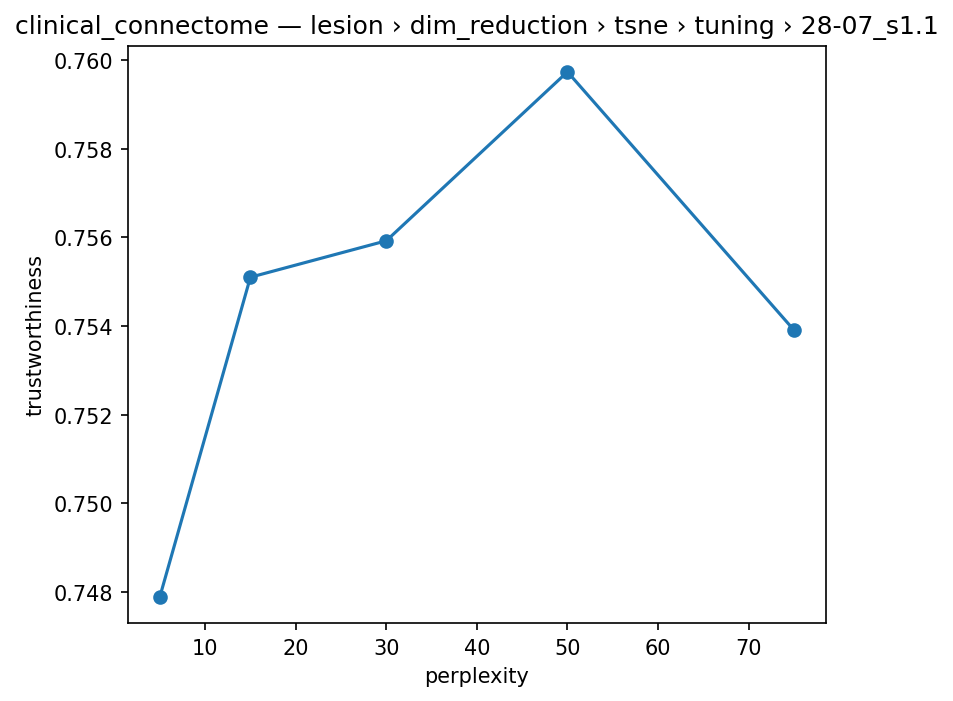
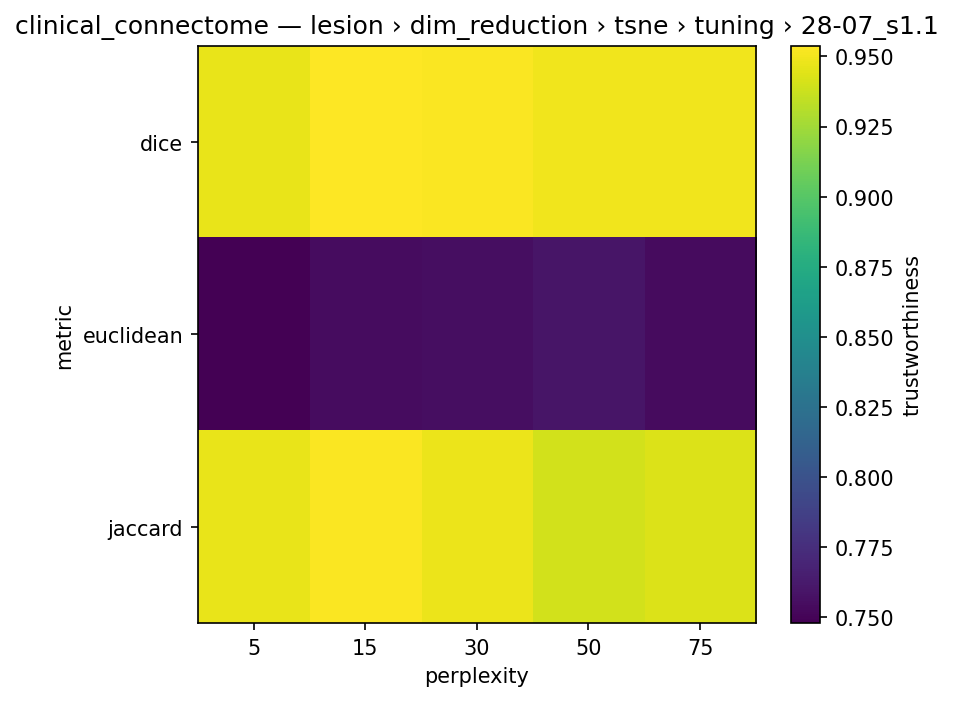
docs(scope): clean up old tuning results and update t-SNE sweep logs

diff --git a/results/lesion/dim_reduction/tsne/tuning/28-07_s1.1/config.md b/results/lesion/dim_reduction/tsne/tuning/28-07_s1.1/config.md
@@ -14,8 +14,8 @@
 
 ## Summary
 
-Swept parameters: ['perplexity']
-Combinations evaluated: 5
+Swept parameters: ['perplexity', 'metric']
+Combinations evaluated: 15
 Metric: trustworthiness
 
 No automatic selection - inspect tuning_results.csv/tuning_plot.png and pick parameters by hand.
